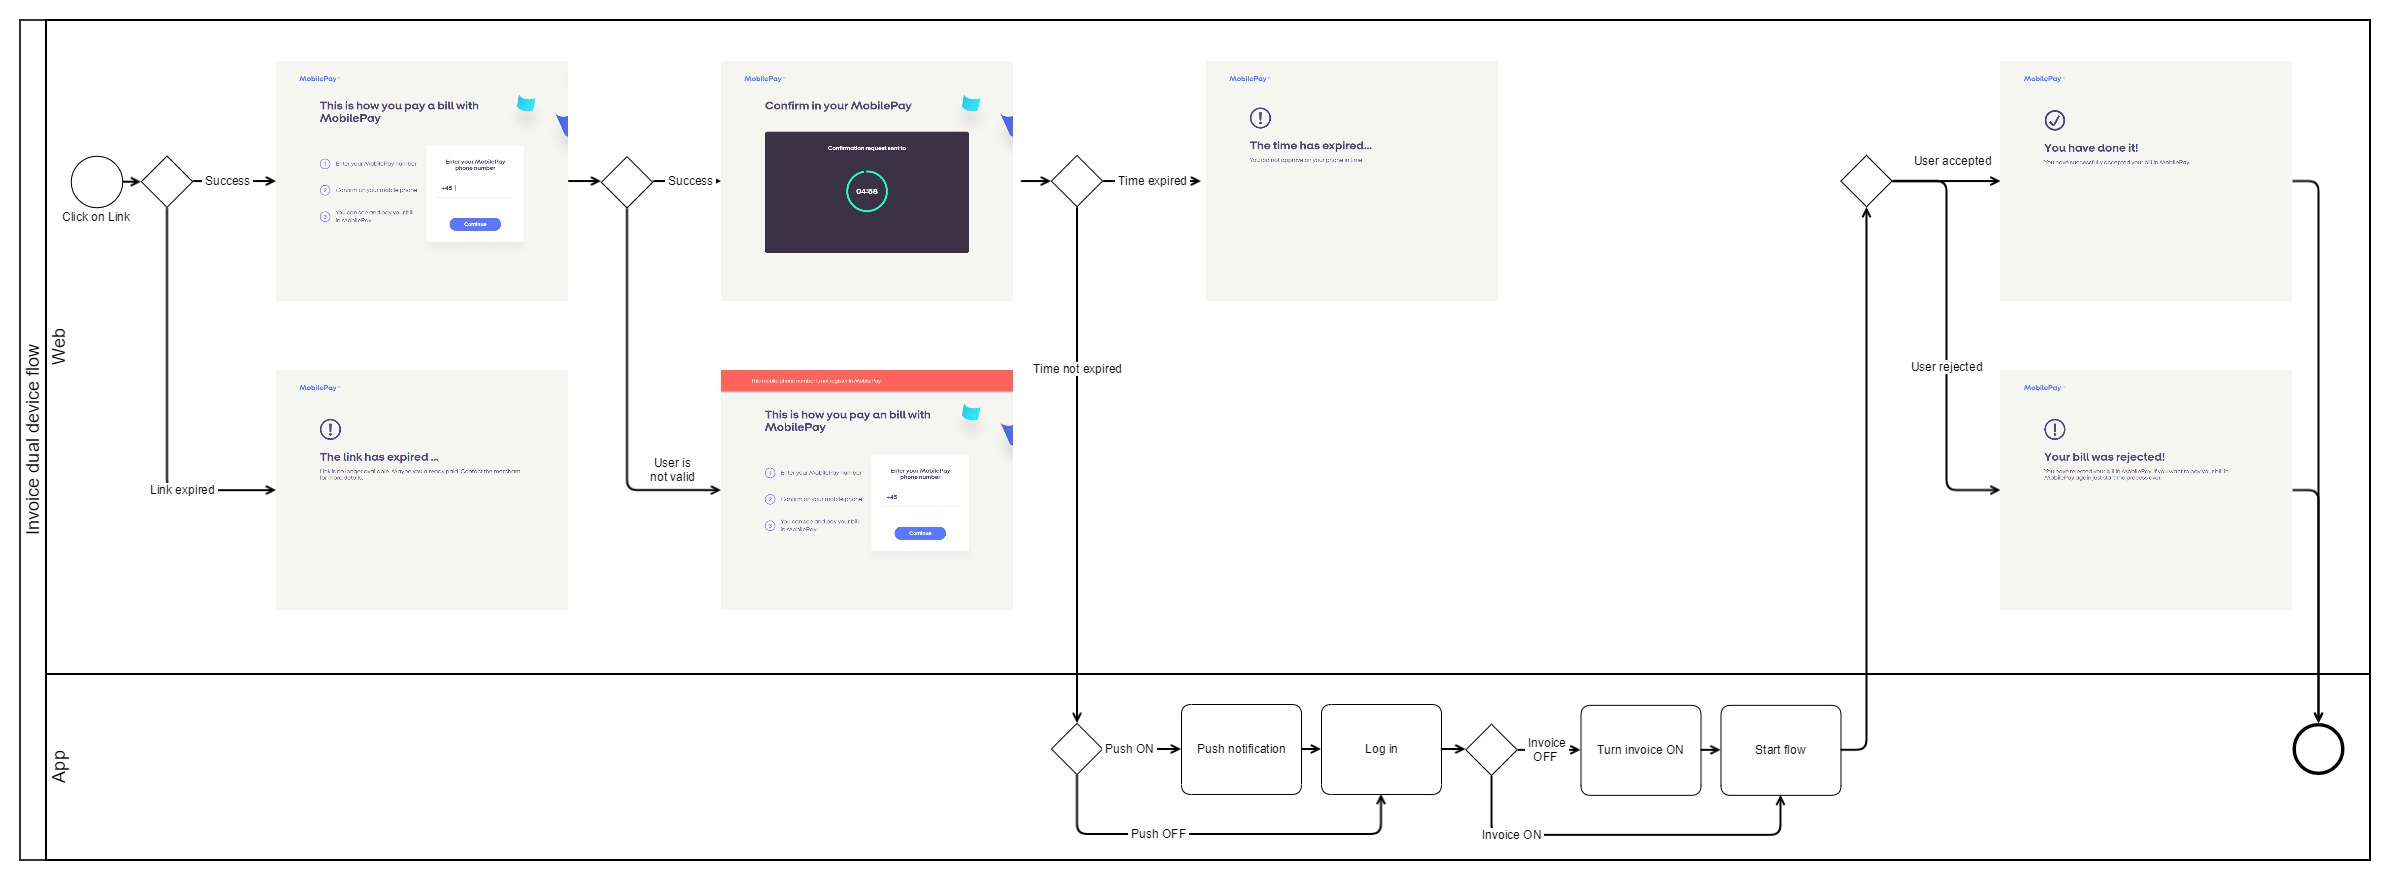
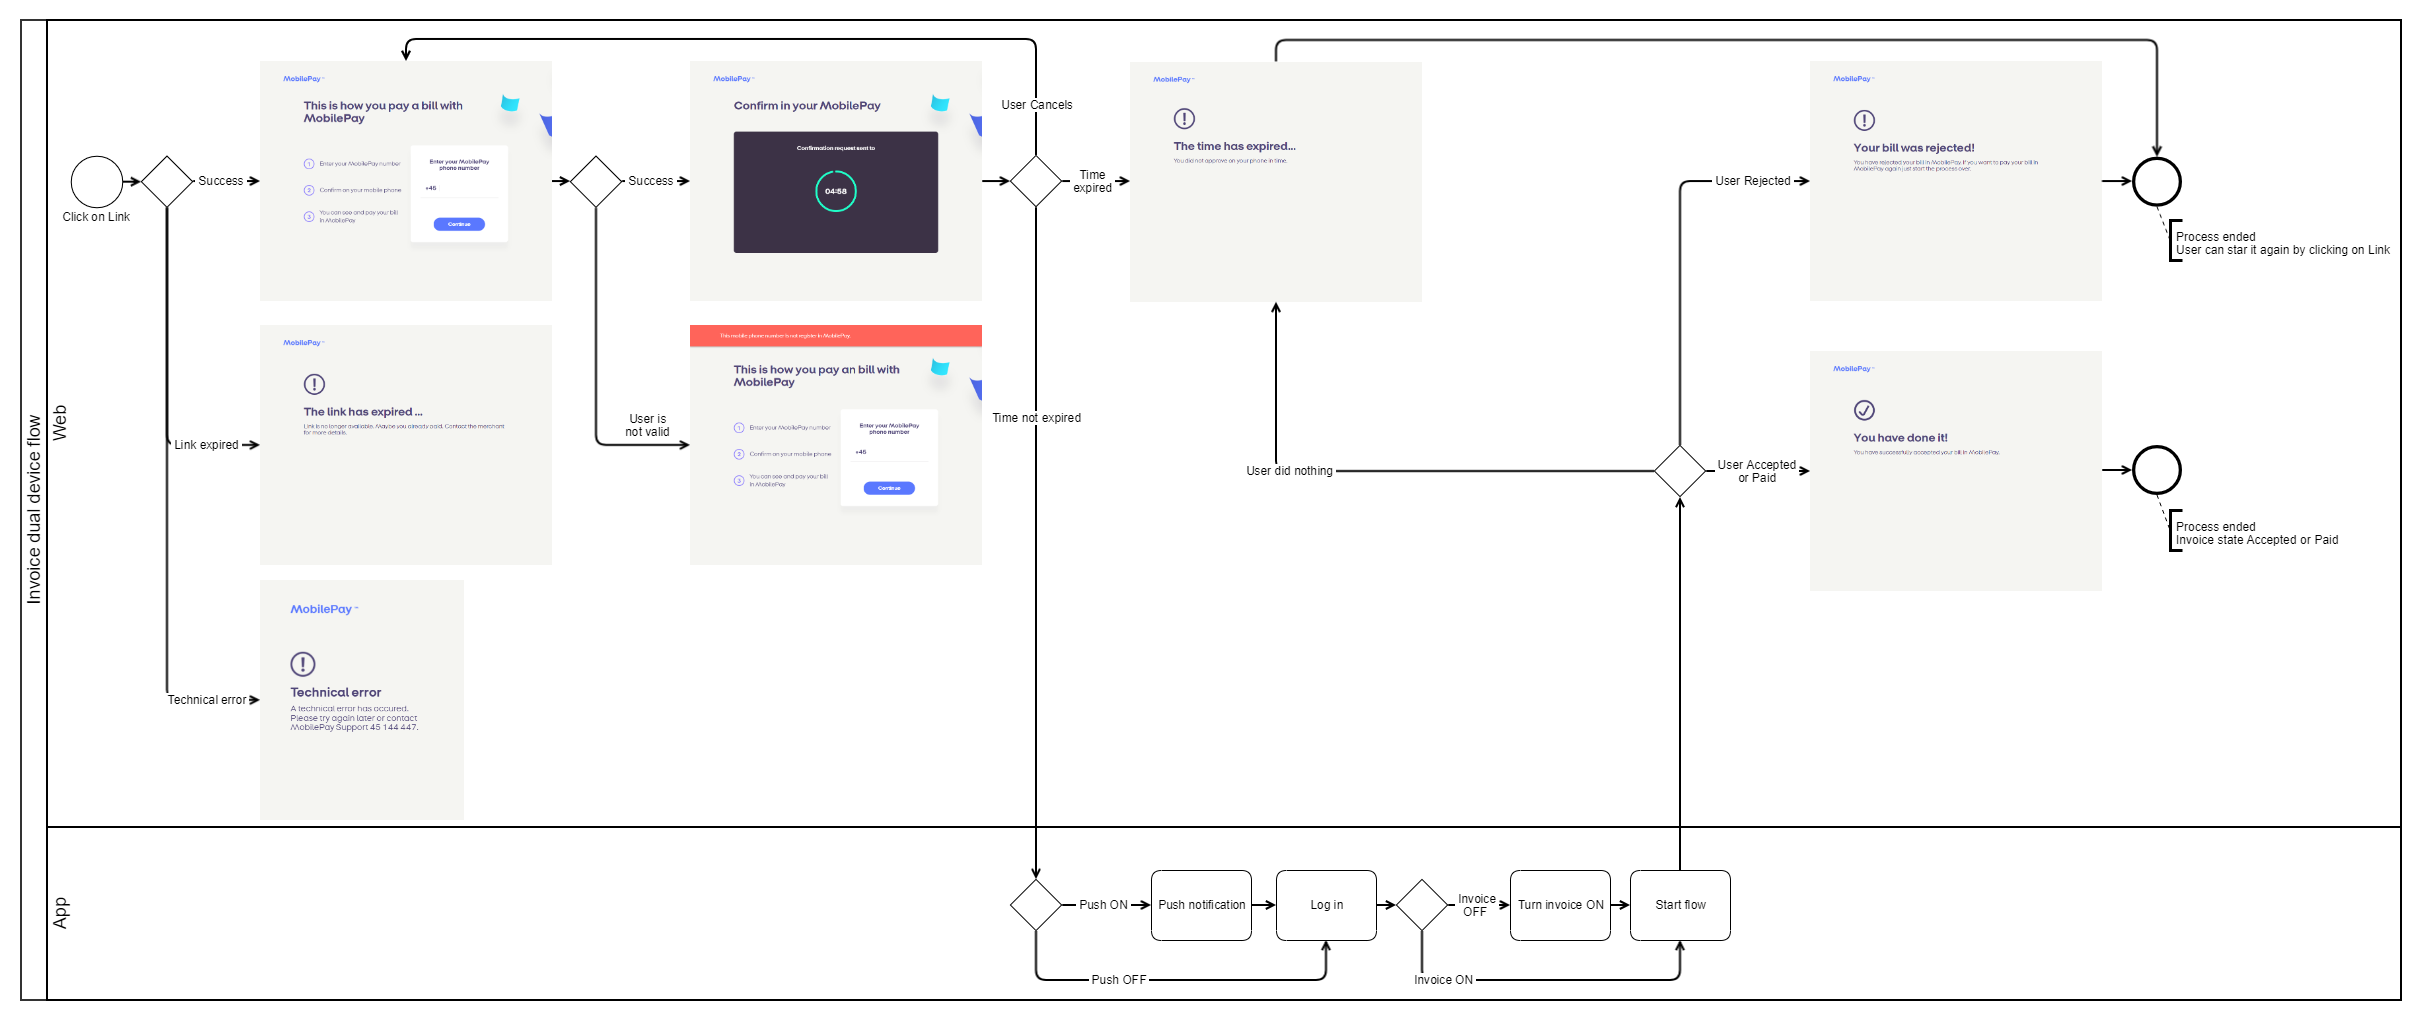
Invoice Diagrams
Added Invoice Direct, Link high level flow diagrams, updated single, dual device flow diagrams

diff --git a/docs/api_reference.md b/docs/api_reference.md
@@ -6,6 +6,10 @@ layout: default
 
 ### <a name="direct"/> InvoiceDirect
 
+High level Invoice Direct flow diagram
+
+[![](assets/images/Invoice_direct_high_level_flow_diagram.png)](Invoice_direct_high_level_flow_diagram.png)
+
 #### Create InvoiceDirect
 
 You can create an invoice directly to MobilePay app. Notice that request require a customer mobile phone number, name and surname. Check how invoice looks in the app [here](visual_examples).
@@ -171,6 +175,10 @@ HTTP 202 Accepted
 </div>
 
 ### <a name="link"/> InvoiceLink
+
+High level Invoice Link flow diagram
+
+[![](assets/images/Invoice_link_high_level_flow_diagram.png)](Invoice_link_high_level_flow_diagram.png)
 
 #### Create InvoiceLink
 
